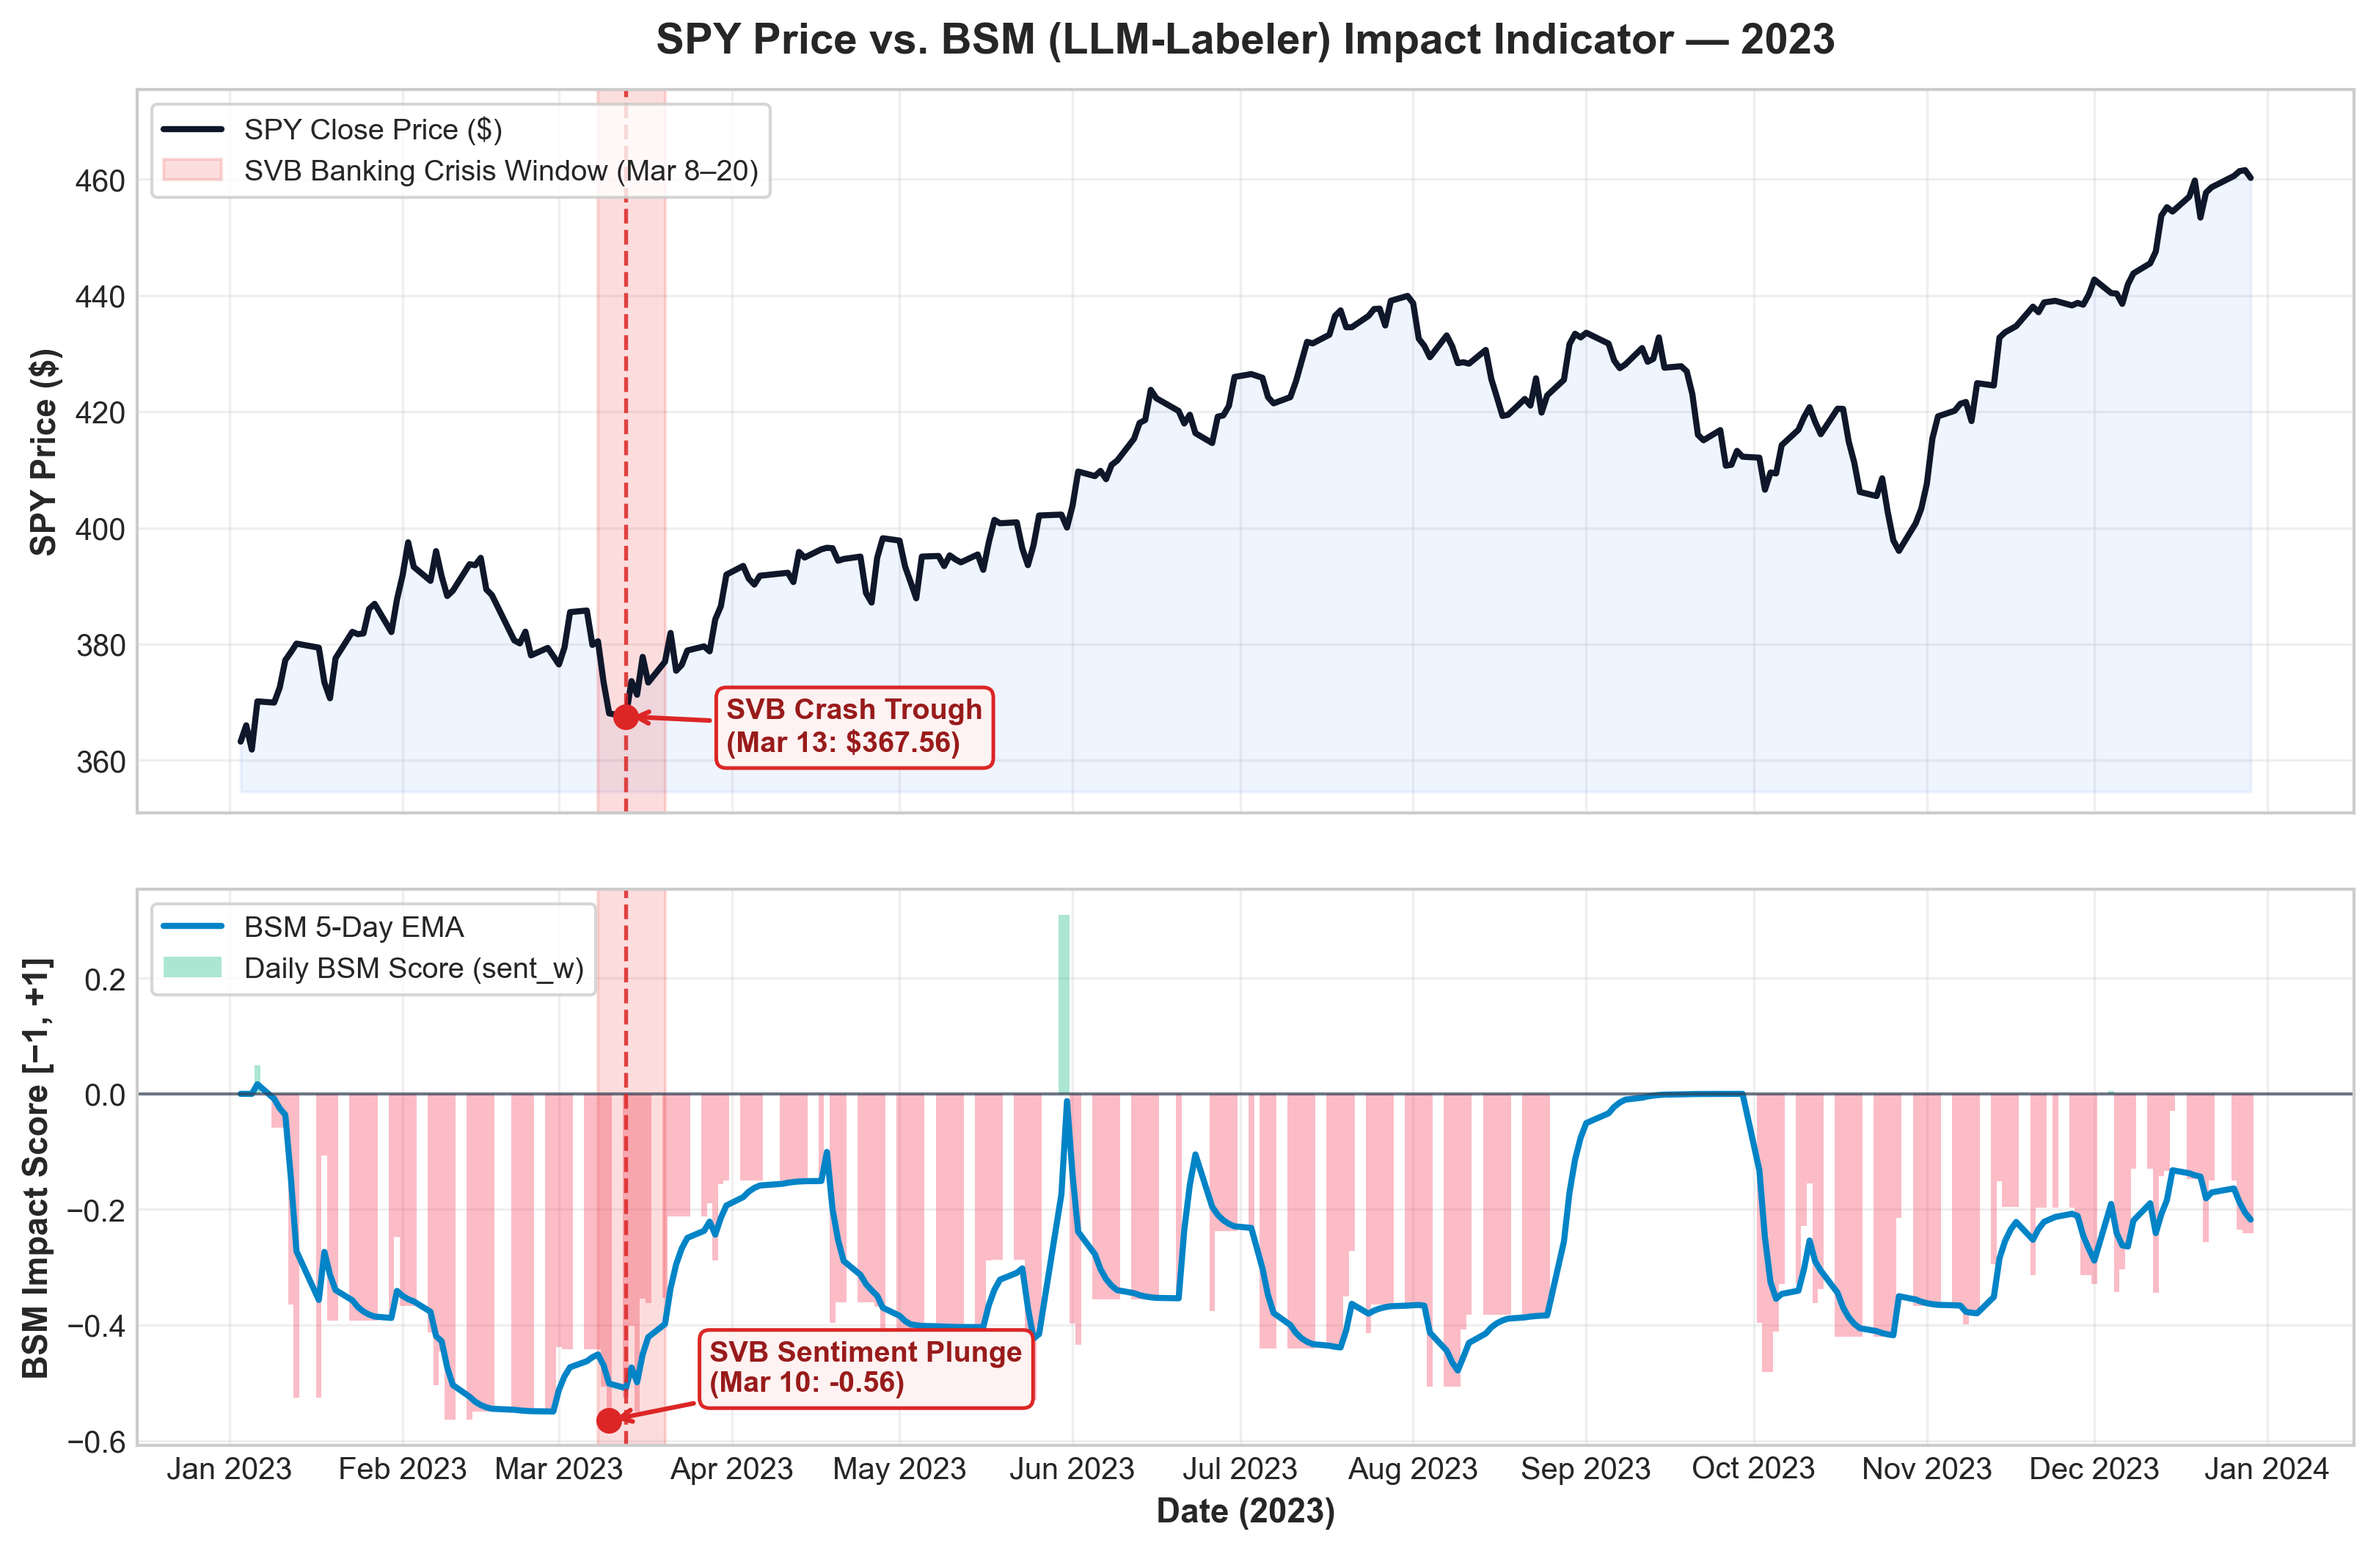
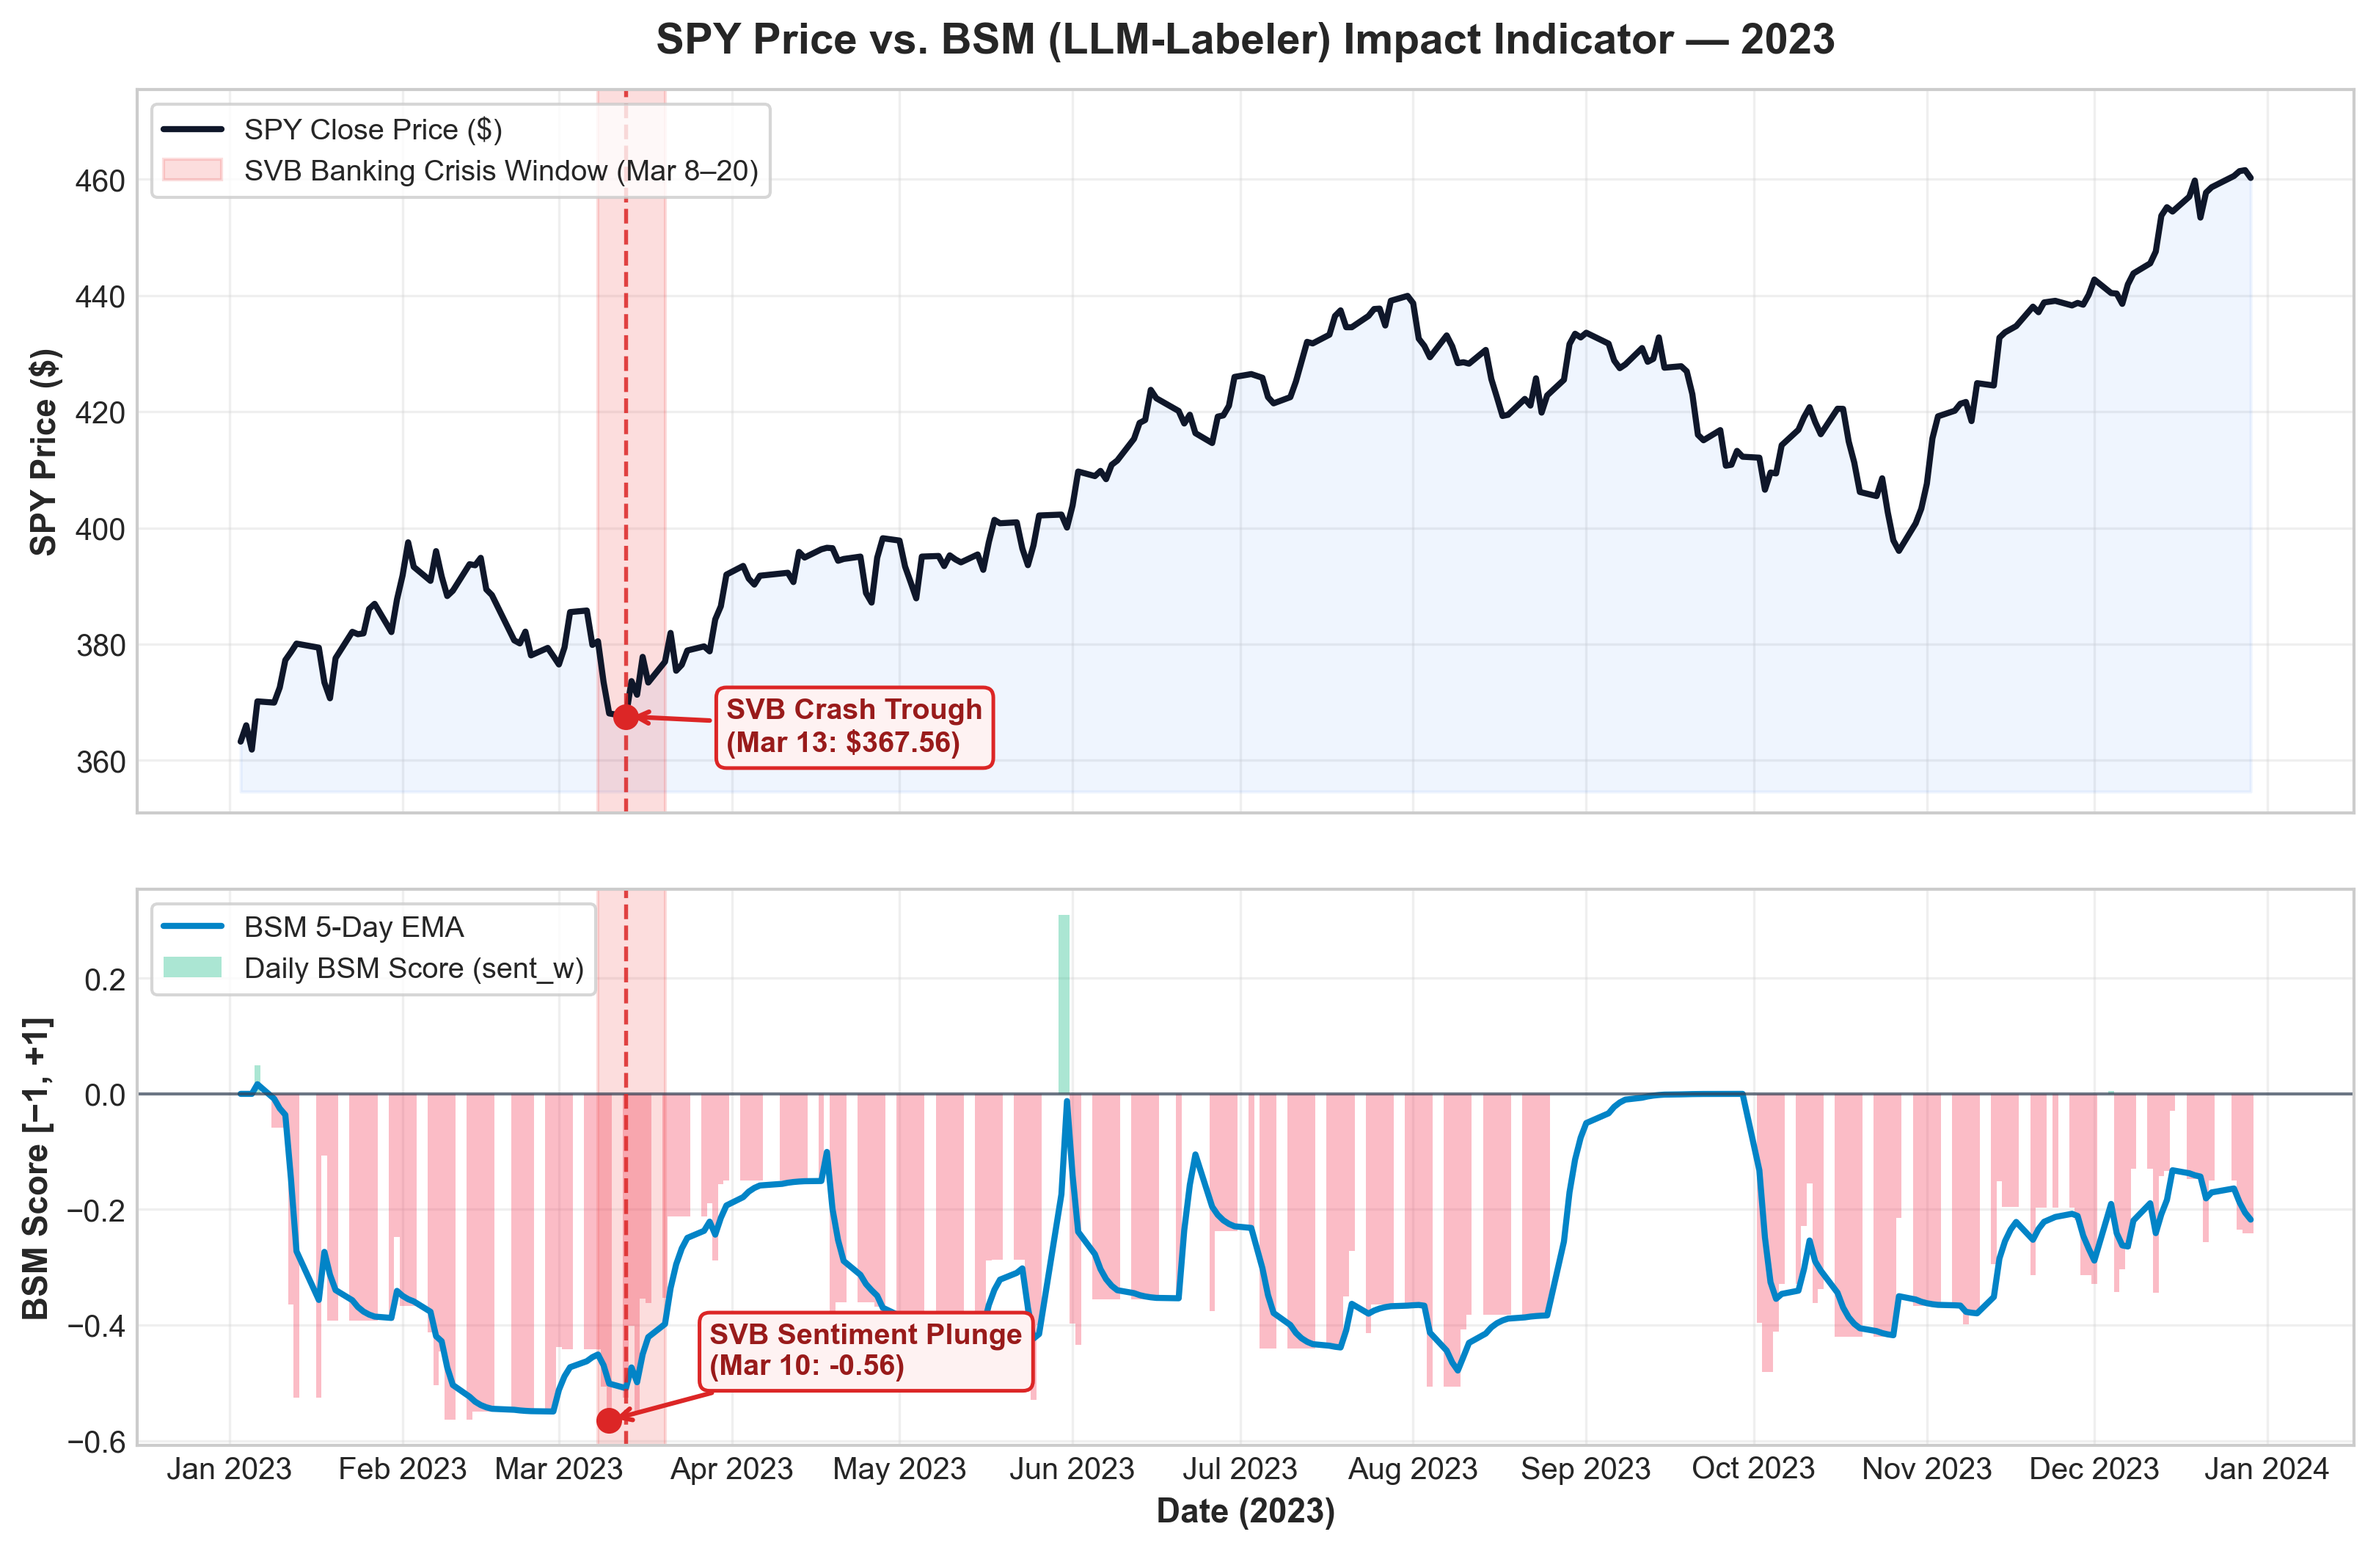
Finbert

Changed region(s): [[0.2806, 0.843, 0.4366, 0.9054], [0.0, 0.6556, 0.0312, 0.9054]]

diff --git a/scripts/plot_price_and_bsm.py b/scripts/plot_price_and_bsm.py
@@ -1,5 +1,8 @@
-"""Plot SPY price in the top panel and the BSM (LLM-Labeler) indicator in the bottom panel,
+"""Plot SPY price in the top panel and the sentiment/impact indicator in the bottom panel,
 with the March 2023 SVB crash highlighted and labeled on both panels.
+Generates:
+  1. outputs/figures/spy_price_and_bsm_indicator.png
+  2. outputs/figures/spy_price_and_finbert_indicator.png
 """
 
 import os
@@ -20,39 +23,28 @@ plt.rcParams["font.family"] = "sans-serif"
 plt.rcParams["font.size"] = 10
 
 
-def main():
-    # 1. Load daily BSM series and market prices
-    sent_df = pd.read_csv(os.path.join(TABLE_DIR, "labeler_daily_series.csv"))
-    sent_df["Date"] = pd.to_datetime(sent_df["Date"])
-
-    market_df = fetch_market_data(start="2022-11-01", end="2023-12-31", use_cache=True).reset_index()
-    market_df["Date"] = pd.to_datetime(market_df["Date"])
-
-    df = pd.merge(sent_df, market_df, on="Date").sort_values("Date").reset_index(drop=True)
-    df["bsm_ema5"] = df["labeler_sent_w"].ewm(span=5, adjust=False).mean()
-
+def plot_price_and_indicator(df, col_name, ema_col, title_name, short_name, line_color, out_filename):
     dates = df["Date"]
     spy = df["SPY_close"]
-    bsm = df["labeler_sent_w"]
-    bsm_ema = df["bsm_ema5"]
+    score = df[col_name]
+    score_ema = df[ema_col]
 
     # SVB crisis key dates
     svb_start = pd.Timestamp("2023-03-08")
     svb_end = pd.Timestamp("2023-03-20")
     svb_peak_stress = pd.Timestamp("2023-03-13")
 
-    # Find exact SPY price and BSM values at SVB stress trough
+    # Find exact SPY price and indicator values at SVB stress trough
     svb_window_df = df[(df["Date"] >= svb_start) & (df["Date"] <= svb_end)]
     svb_price_min_idx = svb_window_df["SPY_close"].idxmin()
     svb_price_min_date = df.loc[svb_price_min_idx, "Date"]
     svb_price_min_val = df.loc[svb_price_min_idx, "SPY_close"]
 
-    svb_bsm_min_idx = svb_window_df["labeler_sent_w"].idxmin()
-    svb_bsm_min_date = df.loc[svb_bsm_min_idx, "Date"]
-    svb_bsm_min_val = df.loc[svb_bsm_min_idx, "labeler_sent_w"]
+    svb_score_min_idx = svb_window_df[col_name].idxmin()
+    svb_score_min_date = df.loc[svb_score_min_idx, "Date"]
+    svb_score_min_val = df.loc[svb_score_min_idx, col_name]
 
-    # 2. Build 2-panel stacked figure sharing x-axis
-    fig, (ax_price, ax_bsm) = plt.subplots(
+    fig, (ax_price, ax_ind) = plt.subplots(
         2, 1, figsize=(13, 8), sharex=True, gridspec_kw={"height_ratios": [1.3, 1.0], "hspace": 0.12}
     )
 
@@ -77,29 +69,28 @@ def main():
         bbox=dict(boxstyle="round,pad=0.35", fc="#FEF2F2", ec="#DC2626", lw=1.2),
     )
 
-    ax_price.set_title("SPY Price vs. BSM (LLM-Labeler) Impact Indicator — 2023", fontsize=14, fontweight="bold", pad=12)
+    ax_price.set_title(f"SPY Price vs. {title_name} — 2023", fontsize=14, fontweight="bold", pad=12)
     ax_price.set_ylabel("SPY Price ($)", fontsize=11, fontweight="bold")
     ax_price.set_ylim(spy.min() * 0.97, spy.max() * 1.03)
     ax_price.legend(loc="upper left", frameon=True, fontsize=9.5)
     ax_price.grid(True, alpha=0.3)
 
-    # --- Bottom Panel: BSM Indicator ---
-    # Bar colors based on positive vs negative score
-    bar_colors = np.where(bsm >= 0, "#10B981", "#F43F5E")
-    ax_bsm.bar(dates, bsm, width=1.0, color=bar_colors, alpha=0.35, label="Daily BSM Score (sent_w)")
-    ax_bsm.plot(dates, bsm_ema, color="#0284C7", lw=2.0, label="BSM 5-Day EMA")
-    ax_bsm.axhline(0, color="#334155", lw=1.0, ls="-", alpha=0.7)
+    # --- Bottom Panel: Indicator ---
+    bar_colors = np.where(score >= 0, "#10B981", "#F43F5E")
+    ax_ind.bar(dates, score, width=1.0, color=bar_colors, alpha=0.35, label=f"Daily {short_name} Score (sent_w)")
+    ax_ind.plot(dates, score_ema, color=line_color, lw=2.0, label=f"{short_name} 5-Day EMA")
+    ax_ind.axhline(0, color="#334155", lw=1.0, ls="-", alpha=0.7)
 
     # Highlight SVB Crash Window
-    ax_bsm.axvspan(svb_start, svb_end, color="#EF4444", alpha=0.18)
-    ax_bsm.axvline(svb_peak_stress, color="#DC2626", ls="--", lw=1.3, alpha=0.85)
+    ax_ind.axvspan(svb_start, svb_end, color="#EF4444", alpha=0.18)
+    ax_ind.axvline(svb_peak_stress, color="#DC2626", ls="--", lw=1.3, alpha=0.85)
 
-    # Annotate SVB Crash on BSM Panel
-    ax_bsm.scatter([svb_bsm_min_date], [svb_bsm_min_val], color="#DC2626", s=55, zorder=5)
-    ax_bsm.annotate(
-        f"SVB Sentiment Plunge\n({svb_bsm_min_date.strftime('%b %d')}: {svb_bsm_min_val:.2f})",
-        xy=(svb_bsm_min_date, svb_bsm_min_val),
-        xytext=(svb_bsm_min_date + pd.Timedelta(days=18), svb_bsm_min_val + 0.05),
+    # Annotate SVB Crash on Indicator Panel
+    ax_ind.scatter([svb_score_min_date], [svb_score_min_val], color="#DC2626", s=55, zorder=5)
+    ax_ind.annotate(
+        f"SVB Sentiment Plunge\n({svb_score_min_date.strftime('%b %d')}: {svb_score_min_val:.2f})",
+        xy=(svb_score_min_date, svb_score_min_val),
+        xytext=(svb_score_min_date + pd.Timedelta(days=18), svb_score_min_val + 0.08),
         arrowprops=dict(arrowstyle="->", color="#DC2626", lw=1.5),
         fontsize=9.5,
         fontweight="bold",
@@ -107,20 +98,51 @@ def main():
         bbox=dict(boxstyle="round,pad=0.35", fc="#FEF2F2", ec="#DC2626", lw=1.2),
     )
 
-    ax_bsm.set_ylabel("BSM Impact Score [−1, +1]", fontsize=11, fontweight="bold")
-    ax_bsm.set_xlabel("Date (2023)", fontsize=11, fontweight="bold")
-    ax_bsm.legend(loc="upper left", frameon=True, fontsize=9.5)
-    ax_bsm.grid(True, alpha=0.3)
+    ax_ind.set_ylabel(f"{short_name} Score [−1, +1]", fontsize=11, fontweight="bold")
+    ax_ind.set_xlabel("Date (2023)", fontsize=11, fontweight="bold")
+    ax_ind.legend(loc="upper left", frameon=True, fontsize=9.5)
+    ax_ind.grid(True, alpha=0.3)
 
-    # Date formatting
     locator = mdates.MonthLocator()
-    ax_bsm.xaxis.set_major_locator(locator)
-    ax_bsm.xaxis.set_major_formatter(mdates.DateFormatter("%b %Y"))
+    ax_ind.xaxis.set_major_locator(locator)
+    ax_ind.xaxis.set_major_formatter(mdates.DateFormatter("%b %Y"))
 
-    out_path = os.path.join(FIG_DIR, "spy_price_and_bsm_indicator.png")
+    out_path = os.path.join(FIG_DIR, out_filename)
     fig.savefig(out_path, dpi=300, bbox_inches="tight")
     plt.close(fig)
     print(f"Saved figure to {out_path}")
+
+
+def main():
+    sent_df = pd.read_csv(os.path.join(TABLE_DIR, "labeler_daily_series.csv"))
+    sent_df["Date"] = pd.to_datetime(sent_df["Date"])
+
+    market_df = fetch_market_data(start="2022-11-01", end="2023-12-31", use_cache=True).reset_index()
+    market_df["Date"] = pd.to_datetime(market_df["Date"])
+
+    df = pd.merge(sent_df, market_df, on="Date").sort_values("Date").reset_index(drop=True)
+    df["bsm_ema5"] = df["labeler_sent_w"].ewm(span=5, adjust=False).mean()
+    df["finbert_ema5"] = df["finbert_sent_w"].ewm(span=5, adjust=False).mean()
+
+    plot_price_and_indicator(
+        df,
+        col_name="labeler_sent_w",
+        ema_col="bsm_ema5",
+        title_name="BSM (LLM-Labeler) Impact Indicator",
+        short_name="BSM",
+        line_color="#0284C7",
+        out_filename="spy_price_and_bsm_indicator.png",
+    )
+
+    plot_price_and_indicator(
+        df,
+        col_name="finbert_sent_w",
+        ema_col="finbert_ema5",
+        title_name="FinBERT Sentiment Indicator",
+        short_name="FinBERT",
+        line_color="#7C3AED",
+        out_filename="spy_price_and_finbert_indicator.png",
+    )
 
 
 if __name__ == "__main__":
